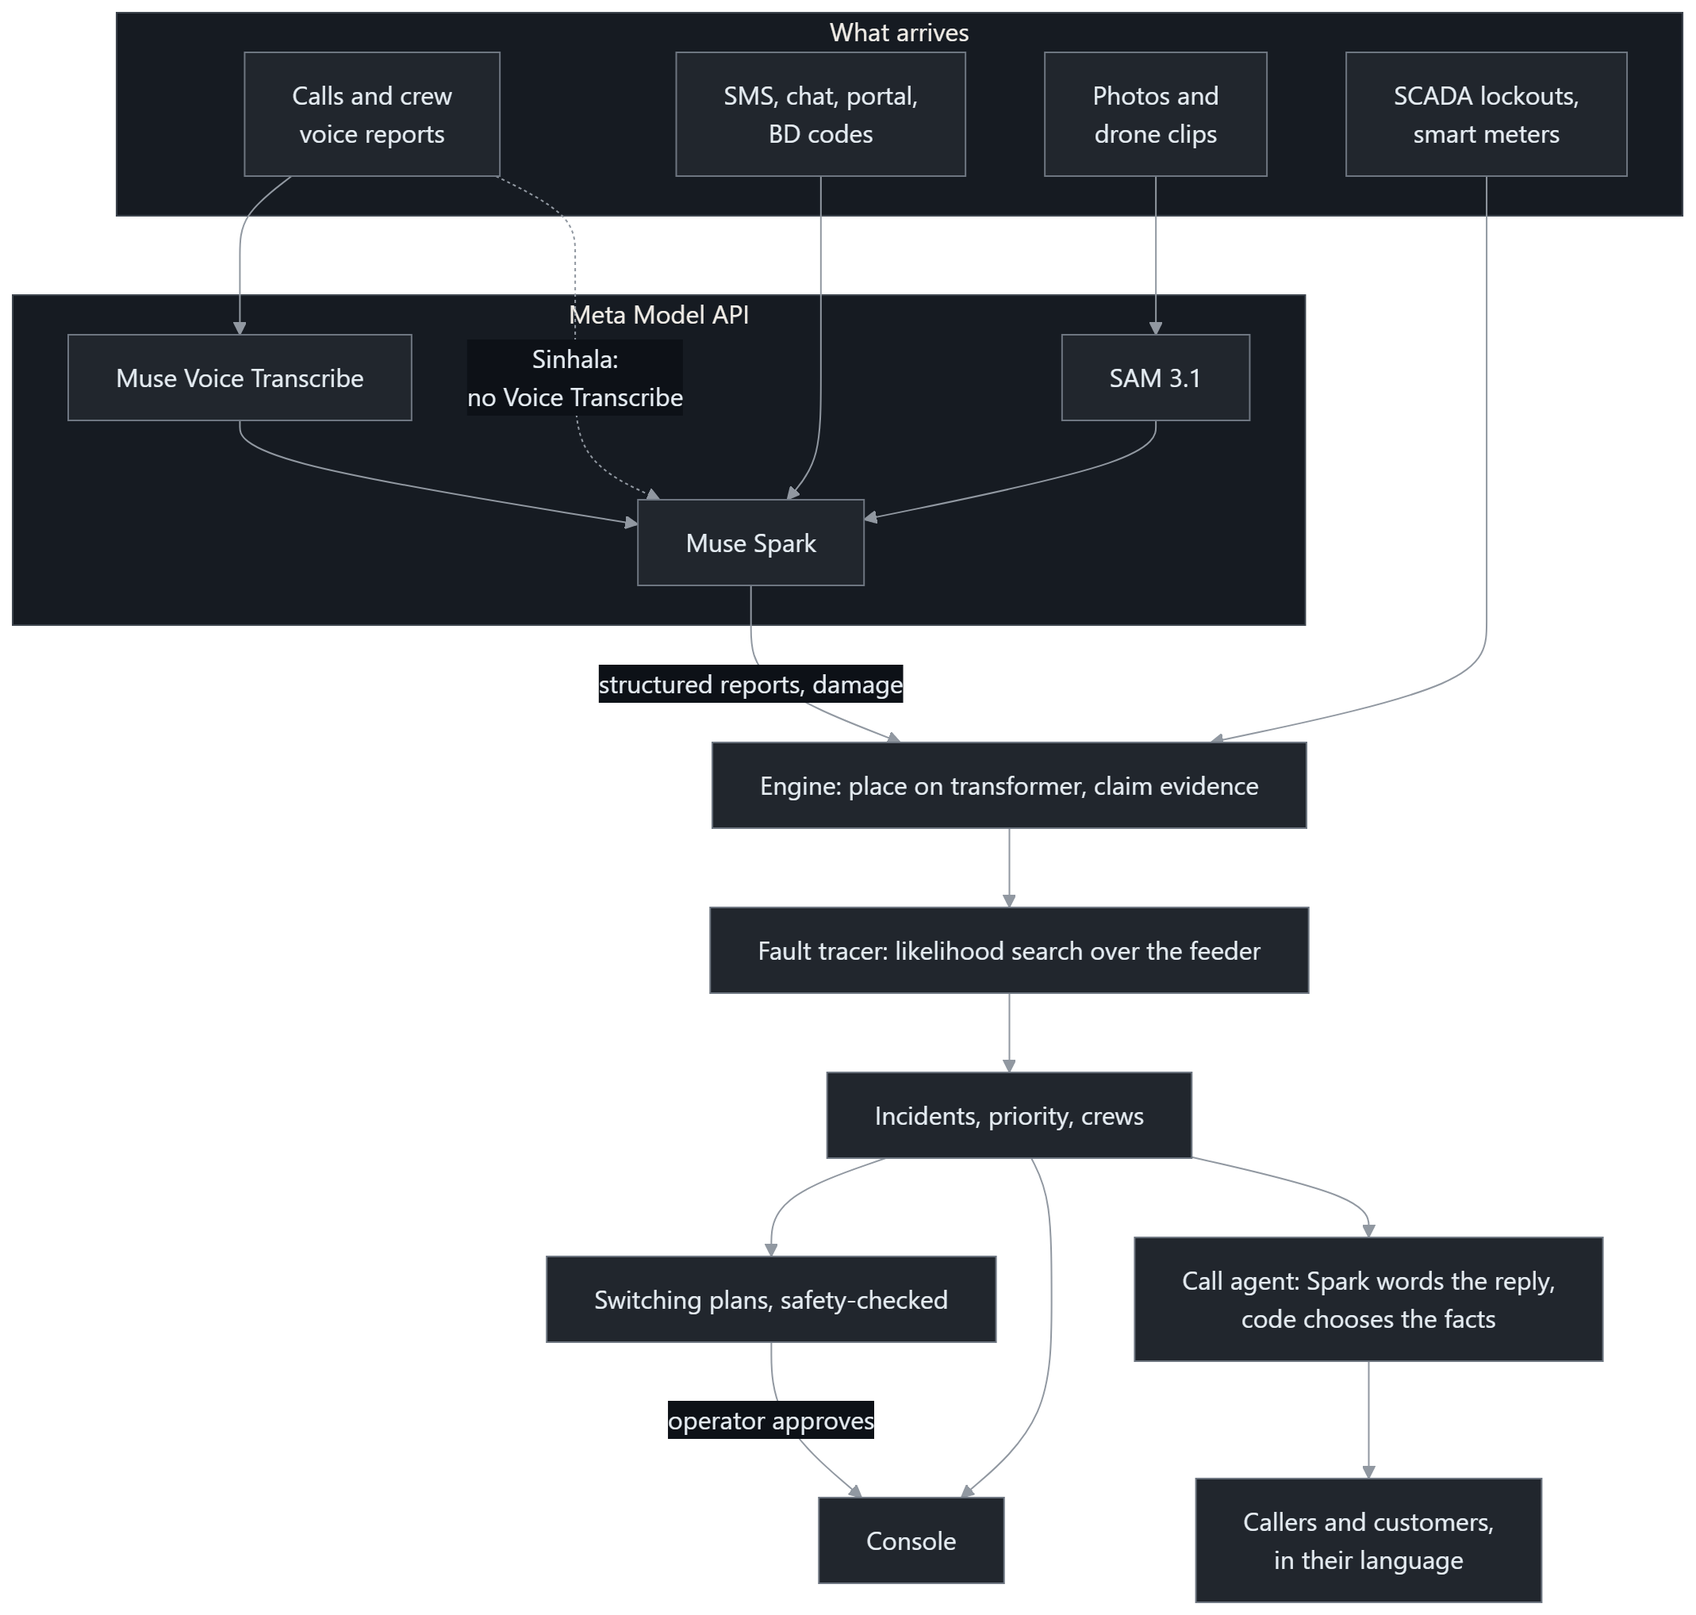
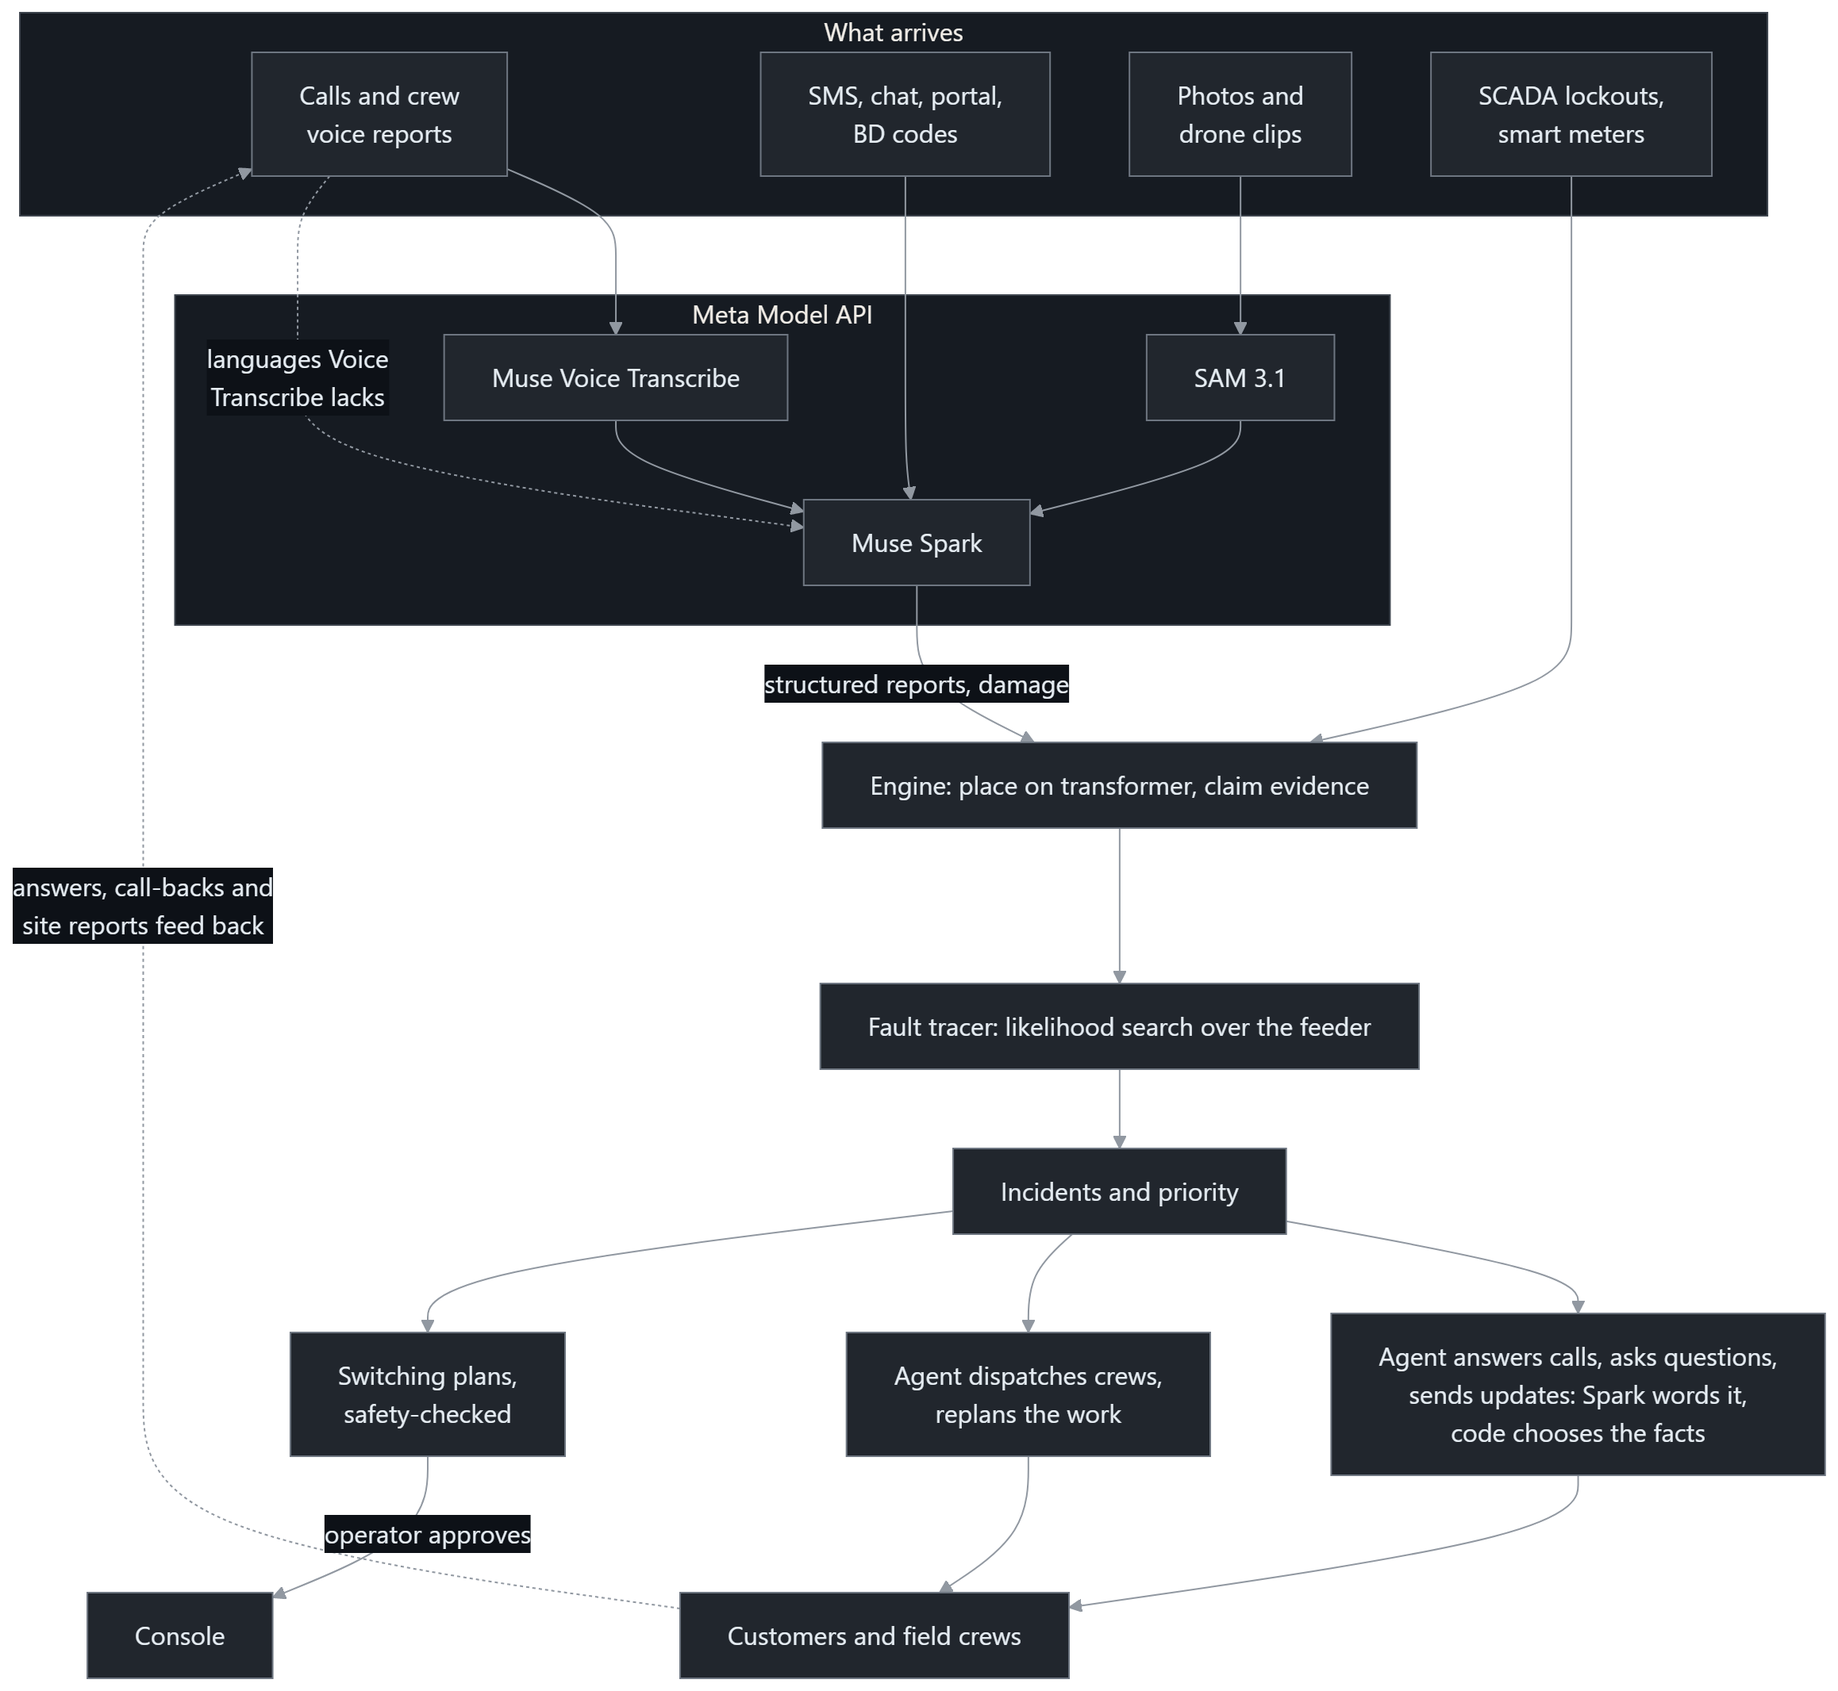
Show what the agent does on its own in the README
Rewrite the tagline and overview around what Relight does rather than
what it plans. Add a section with the agent's cycle, what it does in
each situation, and a measured replay of the storms with no operator
action: every fault found and nobody dark. The same section states what
the operator's approval adds and which of those replies were not live.

Redraw the architecture diagram with the agent's two kinds of action
and the evidence they bring back.

Name English, Spanish and Hindi as examples instead of listing every
language.

diff --git a/README.md b/README.md
@@ -1,8 +1,9 @@
 <h1 align="center">Relight</h1>
 
 <p align="center">
-  <strong>An AI outage agent for electric utilities.</strong><br>
-  Reads what people report after a storm, finds the failed device on the grid, and plans safe restoration.
+  <strong>An autonomous AI outage agent for electric utilities.</strong><br>
+  After a storm it answers every call, finds the failed device on the grid, dispatches crews, keeps customers updated,<br>
+  and prepares safe restoration switching for the operator to approve.
 </p>
 
 <p align="center">
@@ -14,6 +15,7 @@
 </p>
 
 <p align="center">
+  <a href="#what-the-agent-does-on-its-own">The agent</a> ·
   <a href="#quick-start">Quick start</a> ·
   <a href="#how-it-works">How it works</a> ·
   <a href="#results">Results</a> ·
@@ -34,24 +36,71 @@
 
 ## Overview
 
-After a storm, Relight reads what people send (calls, SMS and chat in English, Sinhala, Tamil, Hindi and Spanish; crew
-voice reports; damage photos and drone clips), finds the failed device on the grid, plans safe restoration switching,
-dispatches crews and keeps customers informed. It works with or without smart meters: where a utility has none, the
-customers' own complaints are the sensor.
+After a storm, Relight works the outage on its own. It reads what people send (calls, SMS and chat in English, Spanish,
+Hindi etc.; crew voice reports; damage photos and drone clips) and acts on it: it answers callers, questions customers
+when the evidence is unclear, finds the failed device on the grid, dispatches crews, changes its diagnosis when a crew
+reports something different, and keeps customers updated. It works with or without smart meters: where a utility has
+none, the customers' own complaints are the sensor.
 
 The design rests on one rule:
 
-**Meta models read. Deterministic code locates and decides. The operator approves.**
+**Meta models read and speak. Deterministic code locates and decides. The agent acts. Only the operator can approve grid
+switching.**
 
 A model never guesses where a fault is and never approves a switching action. Muse Spark, Muse Voice Transcribe and
 SAM 3.1 turn messy human evidence (speech, text, photos, video) into structured facts. A probabilistic tracer then
 decides which device opened or which line broke, and a safety-checked planner proposes how to restore power. Every
-switching plan waits for the operator.
+switching plan waits for the operator; the rest of the response doesn't wait for the control room.
 
 Built solo for the **Meta Global AI Developer Hackathon 2026** (Indie track, theme *Push the Frontier*: understand and
 control a physical system).
 
-### Highlights
+## What the agent does on its own
+
+Each new report runs the same cycle, and what the agent does next produces the evidence for the following one:
+
+1. **Read.** Spark, Voice Transcribe and SAM 3.1 turn each call, message, photo and crew report into structured facts.
+2. **Decide.** The tracer works out what failed and how sure it is, and the planner ranks the work.
+3. **Act.** The agent asks a question, sends a crew, answers a caller or sends customers an update.
+4. **Check the result.** Answers, crew reports and calls from people still in the dark go back into step 1, so the agent
+   corrects itself.
+
+| When this happens | The agent does this, without being told |
+|---|---|
+| A call comes in | Answers in the caller's language, confirms the address, warns about hazards and gives the current status |
+| The evidence fits two explanations | Finds the customer whose answer separates them, asks by text or during a call, and traces again |
+| One house is dark and nobody else reports it | After 150 seconds, asks a neighbour on the same transformer; if the neighbour has power, opens a service-wire job |
+| A fault reaches 80% confidence | Opens an incident, ranks it, sends the nearest idle crew with the right skills, and tells the people who reported it when power should be back |
+| A crew finds something different | Reads the report back; once the crew confirms, changes the diagnosis, replans the work, and releases the crew if it can't do the repair |
+| A patrol finds nothing and the device is still locked out | Extends the patrol, up to three patrols |
+| People are still dark after a repair | Treats their calls as new evidence and finds the fault hidden behind the first |
+| A hospital's backup generator fails | Raises that outage's priority |
+| A restoration estimate moves by 15 minutes or more | Texts the affected customers the new time |
+| A caller reports a live wire or fire, or a critical customer calls | Gives the safety line and flags the call to the control room; in live-call mode it can put the call through to a call-taker |
+| Restoration switching could help | Proposes plans, blocks any unsafe one, and **stops for the operator** |
+
+### Measured: a storm with nobody at the console
+
+`python scripts/run_headless.py galle_storm --no-switching --timeline` replays a storm with no operator action and no
+plan approved. Every fault was found and everyone was restored:
+
+| Storm | Calls answered | Crew reports read back | Questions asked | Crews dispatched | Updates sent | Faults found | Dark at the end | Operator actions |
+|---|---|---|---|---|---|---|---|---|
+| Galle | 25 | 11 | 4 | 12 | 131 | 6 of 6 | 0 | **0** |
+| Houston | 84 | 7 | 5 | 13 | 713 | 7 of 7 | 0 | **0** |
+| Chennai | 883 | 9 | 2 | 15 | 6,563 | 9 of 9 | 0 | **0** |
+
+The three small storms (`house_fuse`, `tree_on_line`, `hospital_generator`) offer no plan to approve and also end with
+every fault found and nobody dark.
+
+- **What the operator adds.** The agent can finish a storm alone, but switching gets people back sooner. With the one plan
+  approved per storm, customer-minutes interrupted fall by 24% in Galle (94,264 to 71,618), 49% in Houston (223,936 to
+  115,002) and 54% in Chennai (3,536,841 to 1,621,162).
+- **What these runs are.** Crews and customers are simulated, and a finished repair closes the device in the simulation.
+  Slower restoration also brings call-backs that never ran live, so 72 of Houston's 330 messages and 735 of Chennai's 3,741
+  use the scenario's labels instead of a live reading, tagged `mock`. Galle has none.
+
+## Highlights
 
 - **Calls in five languages.** An AI call agent answers every call in the caller's language, warns about hazards,
   escalates live wires and critical customers, and asks a neighbour when the tracer is torn between two explanations.
@@ -78,6 +127,8 @@ control a physical system).
 
 ## Contents
 
+- [What the agent does on its own](#what-the-agent-does-on-its-own)
+- [Highlights](#highlights)
 - [Quick start](#quick-start)
 - [Usage](#usage)
 - [How it works](#how-it-works)
@@ -147,9 +198,9 @@ Eight scenarios run on the same engine. Pick one in the console header, or repla
 
 | ID | What it shows |
 |---|---|
-| `galle_storm` | The full story: Sinhala, Tamil and English messages, a changed diagnosis, switching around a fault, a hidden fuse |
+| `galle_storm` | The full story: messages in three languages, a changed diagnosis, switching around a fault, a hidden fuse |
 | `houston_hurricane` | Smart meters that fail mid-storm; English and Spanish |
-| `chennai_cyclone` | Scale: about 2,400 messages in English, Tamil and Hindi |
+| `chennai_cyclone` | Scale: about 2,400 messages in three languages |
 | `house_fuse` | One house dark: one caller, a neighbour asked, a service fault found by elimination |
 | `tree_on_line` | One tree on a lateral: about 160 customers, a tree crew then a line crew |
 | `hospital_generator` | A hospital's backup generator fails and it calls |
@@ -162,7 +213,7 @@ Eight scenarios run on the same engine. Pick one in the console header, or repla
 python scripts/run_headless.py galle_storm               # incidents and a check against the scenario's truth
 python scripts/run_headless.py galle_storm --timeline    # also print the full event log
 python scripts/run_headless.py galle_storm --calls       # also print every voiced call and crew report
-python scripts/run_headless.py galle_storm --no-switching
+python scripts/run_headless.py galle_storm --no-switching  # nobody approves anything: the agent works the storm alone
 ```
 
 Headless runs approve safe switching plans automatically to exercise that path. The server never does: there, the
@@ -178,15 +229,15 @@ Still dark at the end: 0 customers (believed); world says 0
 <picture>
   <source media="(prefers-color-scheme: dark)" srcset="docs/img/architecture-dark.png">
   <source media="(prefers-color-scheme: light)" srcset="docs/img/architecture-light.png">
-  <img alt="How Relight works. Calls and crew voice reports go to Muse Voice Transcribe, then Muse Spark; Sinhala calls go straight to Muse Spark. SMS, chat, portal messages and BD codes go to Muse Spark. Photos and drone clips go to SAM 3.1, then Muse Spark. Muse Spark's structured reports and damage findings, with SCADA lockouts and smart meters, go to the engine, then the fault tracer, then incidents, priority and crews. From there, safety-checked switching plans reach the console once the operator approves them, and the call agent replies to callers and customers in their language." src="docs/img/architecture-light.png">
+  <img alt="How Relight works. Calls and crew voice reports go to Muse Voice Transcribe, then Muse Spark; calls in languages Voice Transcribe lacks go straight to Muse Spark. SMS, chat, portal messages and BD codes go to Muse Spark. Photos and drone clips go to SAM 3.1, then Muse Spark. Muse Spark's structured reports and damage findings, with SCADA lockouts and smart meters, go to the engine, then the fault tracer, then incidents and priority. From there the agent answers calls, asks questions and sends updates, and it dispatches crews and replans the work. Customers' answers and call-backs and crews' site reports feed back in at the top. Safety-checked switching plans reach the console once the operator approves them." src="docs/img/architecture-light.png">
 </picture>
 
 ### What each Meta model does
 
 | Model | Job in Relight | Measured |
 |---|---|---|
-| **Muse Spark** (`muse-spark-1.3`) | Reads every complaint and crew report into a JSON schema (street, house number, symptom, hazard, junk) in five languages. Words the call agent's replies and the dispatcher's explanations. Classifies damage photos and watches drone clips. **Listens to Sinhala calls directly from the audio.** Reads pole-number plates. | Accuracy below. `reasoning_effort: minimal` cut extraction latency from 4.4 to 2.4 s and Sinhala line wording from 9.9 to 2.8 s. |
-| **Muse Voice Transcribe** | Phone calls to text (Tamil, Hindi, Spanish, English), through the file endpoint and a realtime WebSocket line with speaker diarization. The feeder's street names go in as `keywords`. | Street heard right in 11 of 13 clips with keywords against 6 of 13 without. $0.18 per hour of audio. |
+| **Muse Spark** (`muse-spark-1.3`) | Reads every complaint and crew report into a JSON schema (street, house number, symptom, hazard, junk) in five languages. Words the call agent's replies and the dispatcher's explanations. Classifies damage photos and watches drone clips. **Listens directly to calls in a language Voice Transcribe doesn't cover.** Reads pole-number plates. | Accuracy below. `reasoning_effort: minimal` cut extraction latency from 4.4 to 2.4 s and agent-line wording in that language from 9.9 to 2.8 s. |
+| **Muse Voice Transcribe** | Phone calls to text (English, Spanish, Hindi etc.), through the file endpoint and a realtime WebSocket line with speaker diarization. The feeder's street names go in as `keywords`. | Street heard right in 11 of 13 clips with keywords against 6 of 13 without. $0.18 per hour of audio. |
 | **SAM 3.1** | Outlines poles, wires and fallen trees in photos and tracks them through drone clips. Finds the pole-number plate for Spark to read. Pixel masks (decoded with Meta's `meta-sam-parser`) give pole lean, wire sag and where a fallen tree actually touches the wires. | Temple Road clip: 3 poles and 5 wires followed; the trunk touches 3 of 7 wire tracks by mask. |
 
 The console's **Meta models** panel shows requests, tokens, cost and the share of decisions made by each model, by
@@ -215,7 +266,7 @@ the same faults; small details, such as which neighbour is asked, can vary betwe
 |---|---|---|---|---|---|
 | **Galle**, Sri Lanka | IEEE 34-bus feeder over Galle | 1,951 | ~69 | 6 of 6 | 0 |
 | **Houston**, USA | OpenStreetMap, smart meters that fail mid-storm | 3,044 | ~221 | 7 of 7 | 0 |
-| **Chennai**, India | OpenStreetMap, 2,400 messages in English, Tamil and Hindi | 24,559 | ~2,400 | 9 of 9 | 0 |
+| **Chennai**, India | OpenStreetMap, 2,400 messages in three languages | 24,559 | ~2,400 | 9 of 9 | 0 |
 | One house dark | one caller; the agent asks a neighbour | 3,044 | ~4 | 1 of 1 | 0 |
 | Tree on a line | one lateral, about 160 customers | 3,044 | ~58 | 1 of 1 | 0 |
 | Hospital generator | the hospital's backup power fails and it calls | 24,559 | ~294 | 3 of 3 | 0 |
@@ -252,17 +303,17 @@ Scored against the scenario's labels on the engine's own live readings. Results 
 
 | Scenario | Scored | Street | House no. | Symptom | Hazard | Junk |
 |---|---|---|---|---|---|---|
-| Galle (en 30, si 11, ta 6) | 47 | 92% | 94% | 92% | 94% | 100% |
-| Houston (en 117, es 44) | 161 | 98% | 98% | 99% | 99% | 100% |
-| Chennai (en 821, ta 745, hi 126) | 1,692 | 93% | 98% | 97% | 100% | 100% |
+| Galle (3 languages) | 47 | 92% | 94% | 92% | 94% | 100% |
+| Houston (2 languages) | 161 | 98% | 98% | 99% | 99% | 100% |
+| Chennai (3 languages) | 1,692 | 93% | 98% | 97% | 100% | 100% |
 
 Most misses are facts the caller gave only later, or that come from caller ID; the agent confirms each address with the
 caller.
 
 ### The fact check
 
-Of the agent lines Spark worded in the cached runs, none was rejected: Galle 59 lines (English 40, Sinhala 6, Tamil 13),
-Houston 142 (English 101, Spanish 41), Chennai 25 (Tamil 9, English 7, Hindi 9). Median wait per line was 2.0 to 2.9 s.
+Of the agent lines Spark worded in the cached runs, none was rejected: Galle 59 lines, Houston 142 and Chennai 25, across
+five languages. Median wait per line was 2.0 to 2.9 s.
 
 ## Cost
 
@@ -342,10 +393,10 @@ once per team, which is about 5,000 three-minute calls an hour. A larger utility
 ## Limits
 
 - Customers, callers and voices are synthetic. The portal call was tested live with synthetic speech in all five
-  languages, and the crew page in English, Hindi and Spanish; neither has been tested live with a human microphone. Tamil
-  and Sinhala crew reports ran live only as scripted crew calls in the storm scenarios.
-- Samples are small. The Voice Transcribe keyword test used 13 clips; the Sinhala and Tamil samples in Galle are a
-  handful of calls each.
+  languages, and the crew page in English, Hindi and Spanish; neither has been tested live with a human microphone. Crew
+  reports in the other two languages ran live only as scripted crew calls in the storm scenarios.
+- Samples are small. The Voice Transcribe keyword test used 13 clips; two of the language samples in Galle are a handful
+  of calls each.
 - Lean and wire sag are estimates from one camera view.
 - Smart meters are optional and simulated: only Houston has them, and the meter messages are generated, not read from a
   meter data system.
@@ -476,7 +527,7 @@ python scripts/fetch_videos.py
 | The microphone doesn't work on the portal or crew page | Browsers allow it only on `localhost` or HTTPS. Speech also needs a key; without one, type the message |
 | Lines tagged `mock` in the console | That request is not in the cache and there is no key, so the scenario's labels were used |
 | Lookups don't match the map after changing a network or customer settings | Stop the server, delete the matching `data/*.db` file and restart. It is rebuilt on first use |
-| `UnicodeEncodeError` printing Sinhala or Tamil on Windows | Set `PYTHONIOENCODING=utf-8` |
+| `UnicodeEncodeError` printing non-Latin text on Windows | Set `PYTHONIOENCODING=utf-8` |
 | Python changes have no effect | The commands above run without `--reload`, so restart the server |
 
 ## What's next
